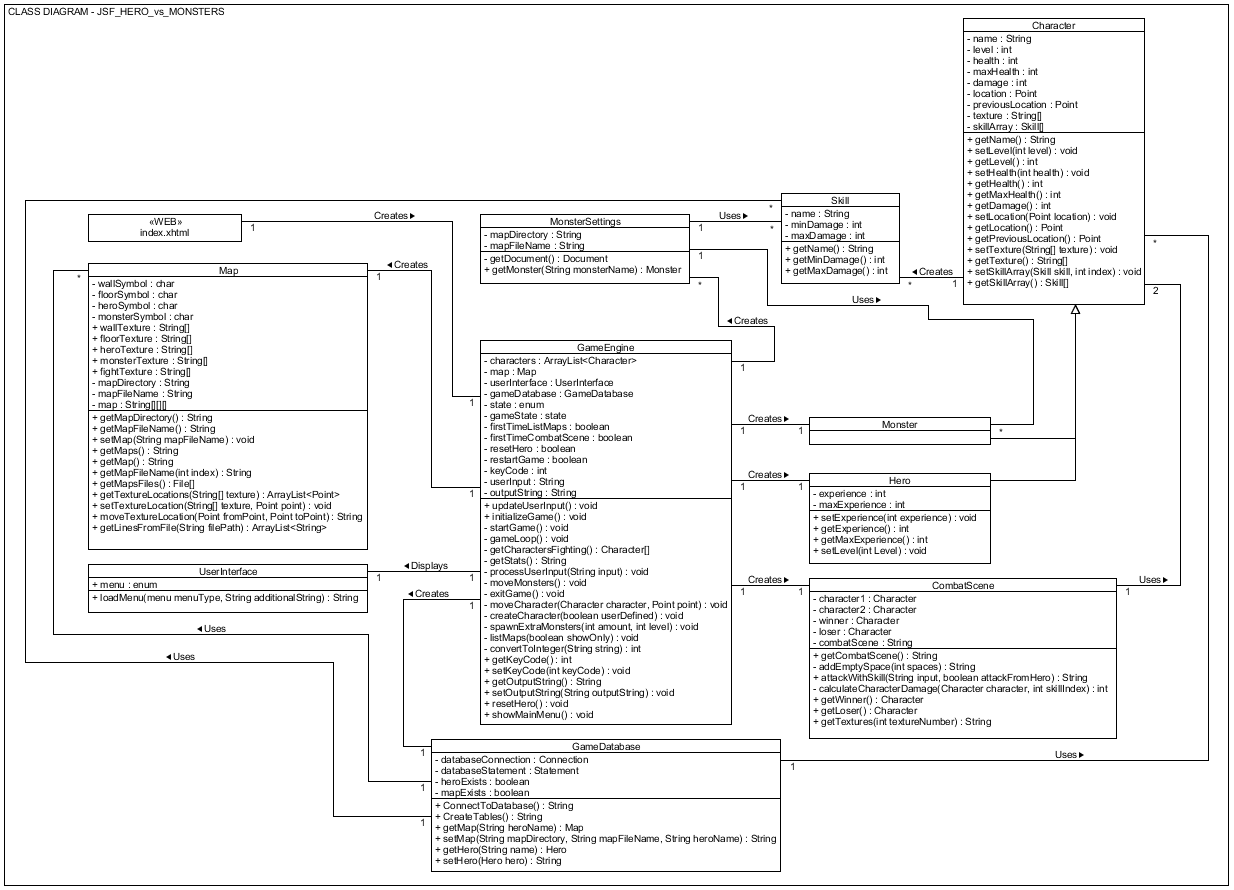
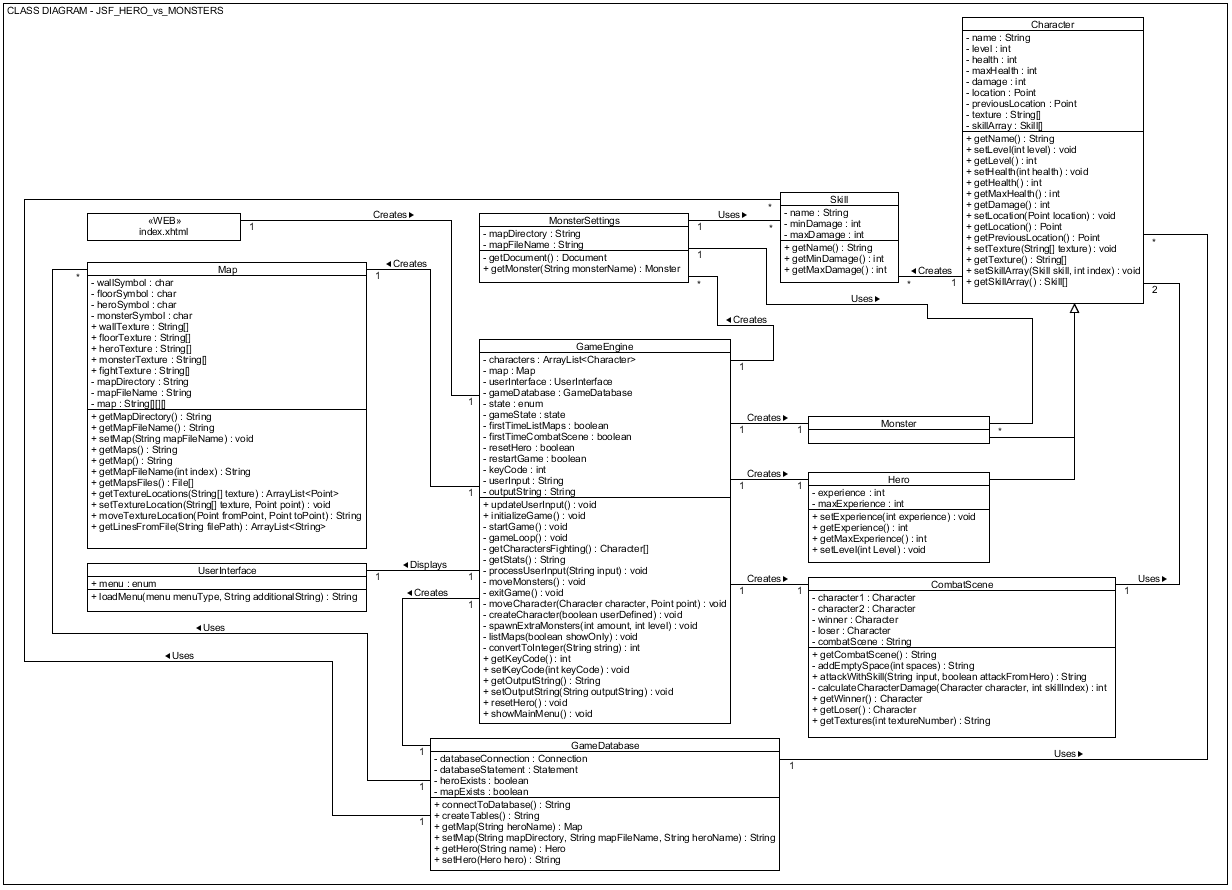
Added new UML

diff --git a/src/dk/JSF_Hero_vs_Monster/main/GameDatabase.java b/src/dk/JSF_Hero_vs_Monster/main/GameDatabase.java
@@ -29,7 +29,7 @@ public class GameDatabase {
      * If no database is found, then a new database will be created.
      * A result in the form of string will also be returned.
      */
-    private String ConnectToDatabase() {
+    private String connectToDatabase() {
         
         try {
 
@@ -53,11 +53,11 @@ public class GameDatabase {
      * If the database already have the tables created then this action will not succeed.
      * A result in the form of string will also be returned.
      */
-    public String CreateTables() {
+    public String createTables() {
         
         try {
             
-            ConnectToDatabase();
+            connectToDatabase();
 
             databaseStatement = databaseConnection.createStatement();
 
@@ -103,7 +103,7 @@ public class GameDatabase {
         
         try {
 
-            ConnectToDatabase();
+            connectToDatabase();
 
             databaseStatement = databaseConnection.createStatement();
 
@@ -148,7 +148,7 @@ public class GameDatabase {
 
         try {
 
-            ConnectToDatabase();
+            connectToDatabase();
 
             databaseStatement = databaseConnection.createStatement();
 
@@ -197,7 +197,7 @@ public class GameDatabase {
         
         try {
 
-            ConnectToDatabase();
+            connectToDatabase();
 
             databaseStatement = databaseConnection.createStatement();
 
@@ -277,7 +277,7 @@ public class GameDatabase {
         
         try {
             
-            ConnectToDatabase();
+            connectToDatabase();
 
             databaseStatement = databaseConnection.createStatement();
 

diff --git a/src/dk/JSF_Hero_vs_Monster/main/GameEngine.java b/src/dk/JSF_Hero_vs_Monster/main/GameEngine.java
@@ -32,7 +32,7 @@ public class GameEngine {
     private enum state { INITIALIZE, LISTMAPSHOWONLY, LISTMAP, STARTGAME, MAPERROR, GAMELOOP, COMBATSCENE, ENDCOMBATSCENE };
 
     /** This is used for handling the games states. */
-    private state gameState = state.INITIALIZE;
+    private state gameState;
 
     /** Booleans needed for controlling some of the games logic. */
     private boolean firstTimeListMaps, firstTimeCombatScene = true, resetHero, restartGame;
@@ -50,9 +50,15 @@ public class GameEngine {
     public GameEngine() {
 
         gameDatabase = new GameDatabase();
+
         userInterface = new UserInterface();
+
         map = new Map();
+
         characters = new ArrayList<Character>();
+
+        gameState = state.INITIALIZE;
+
         outputString = "  Welcome\n  --------------\n" + userInterface.loadMenu(UserInterface.menu.FIRST, "");
 
     }
@@ -100,7 +106,7 @@ public class GameEngine {
 
         firstTimeListMaps = true;
 
-        gameDatabase.CreateTables();
+        gameDatabase.createTables();
 
         switch (convertToInteger(userInput.substring(userInput.length() - 1))) {
 
